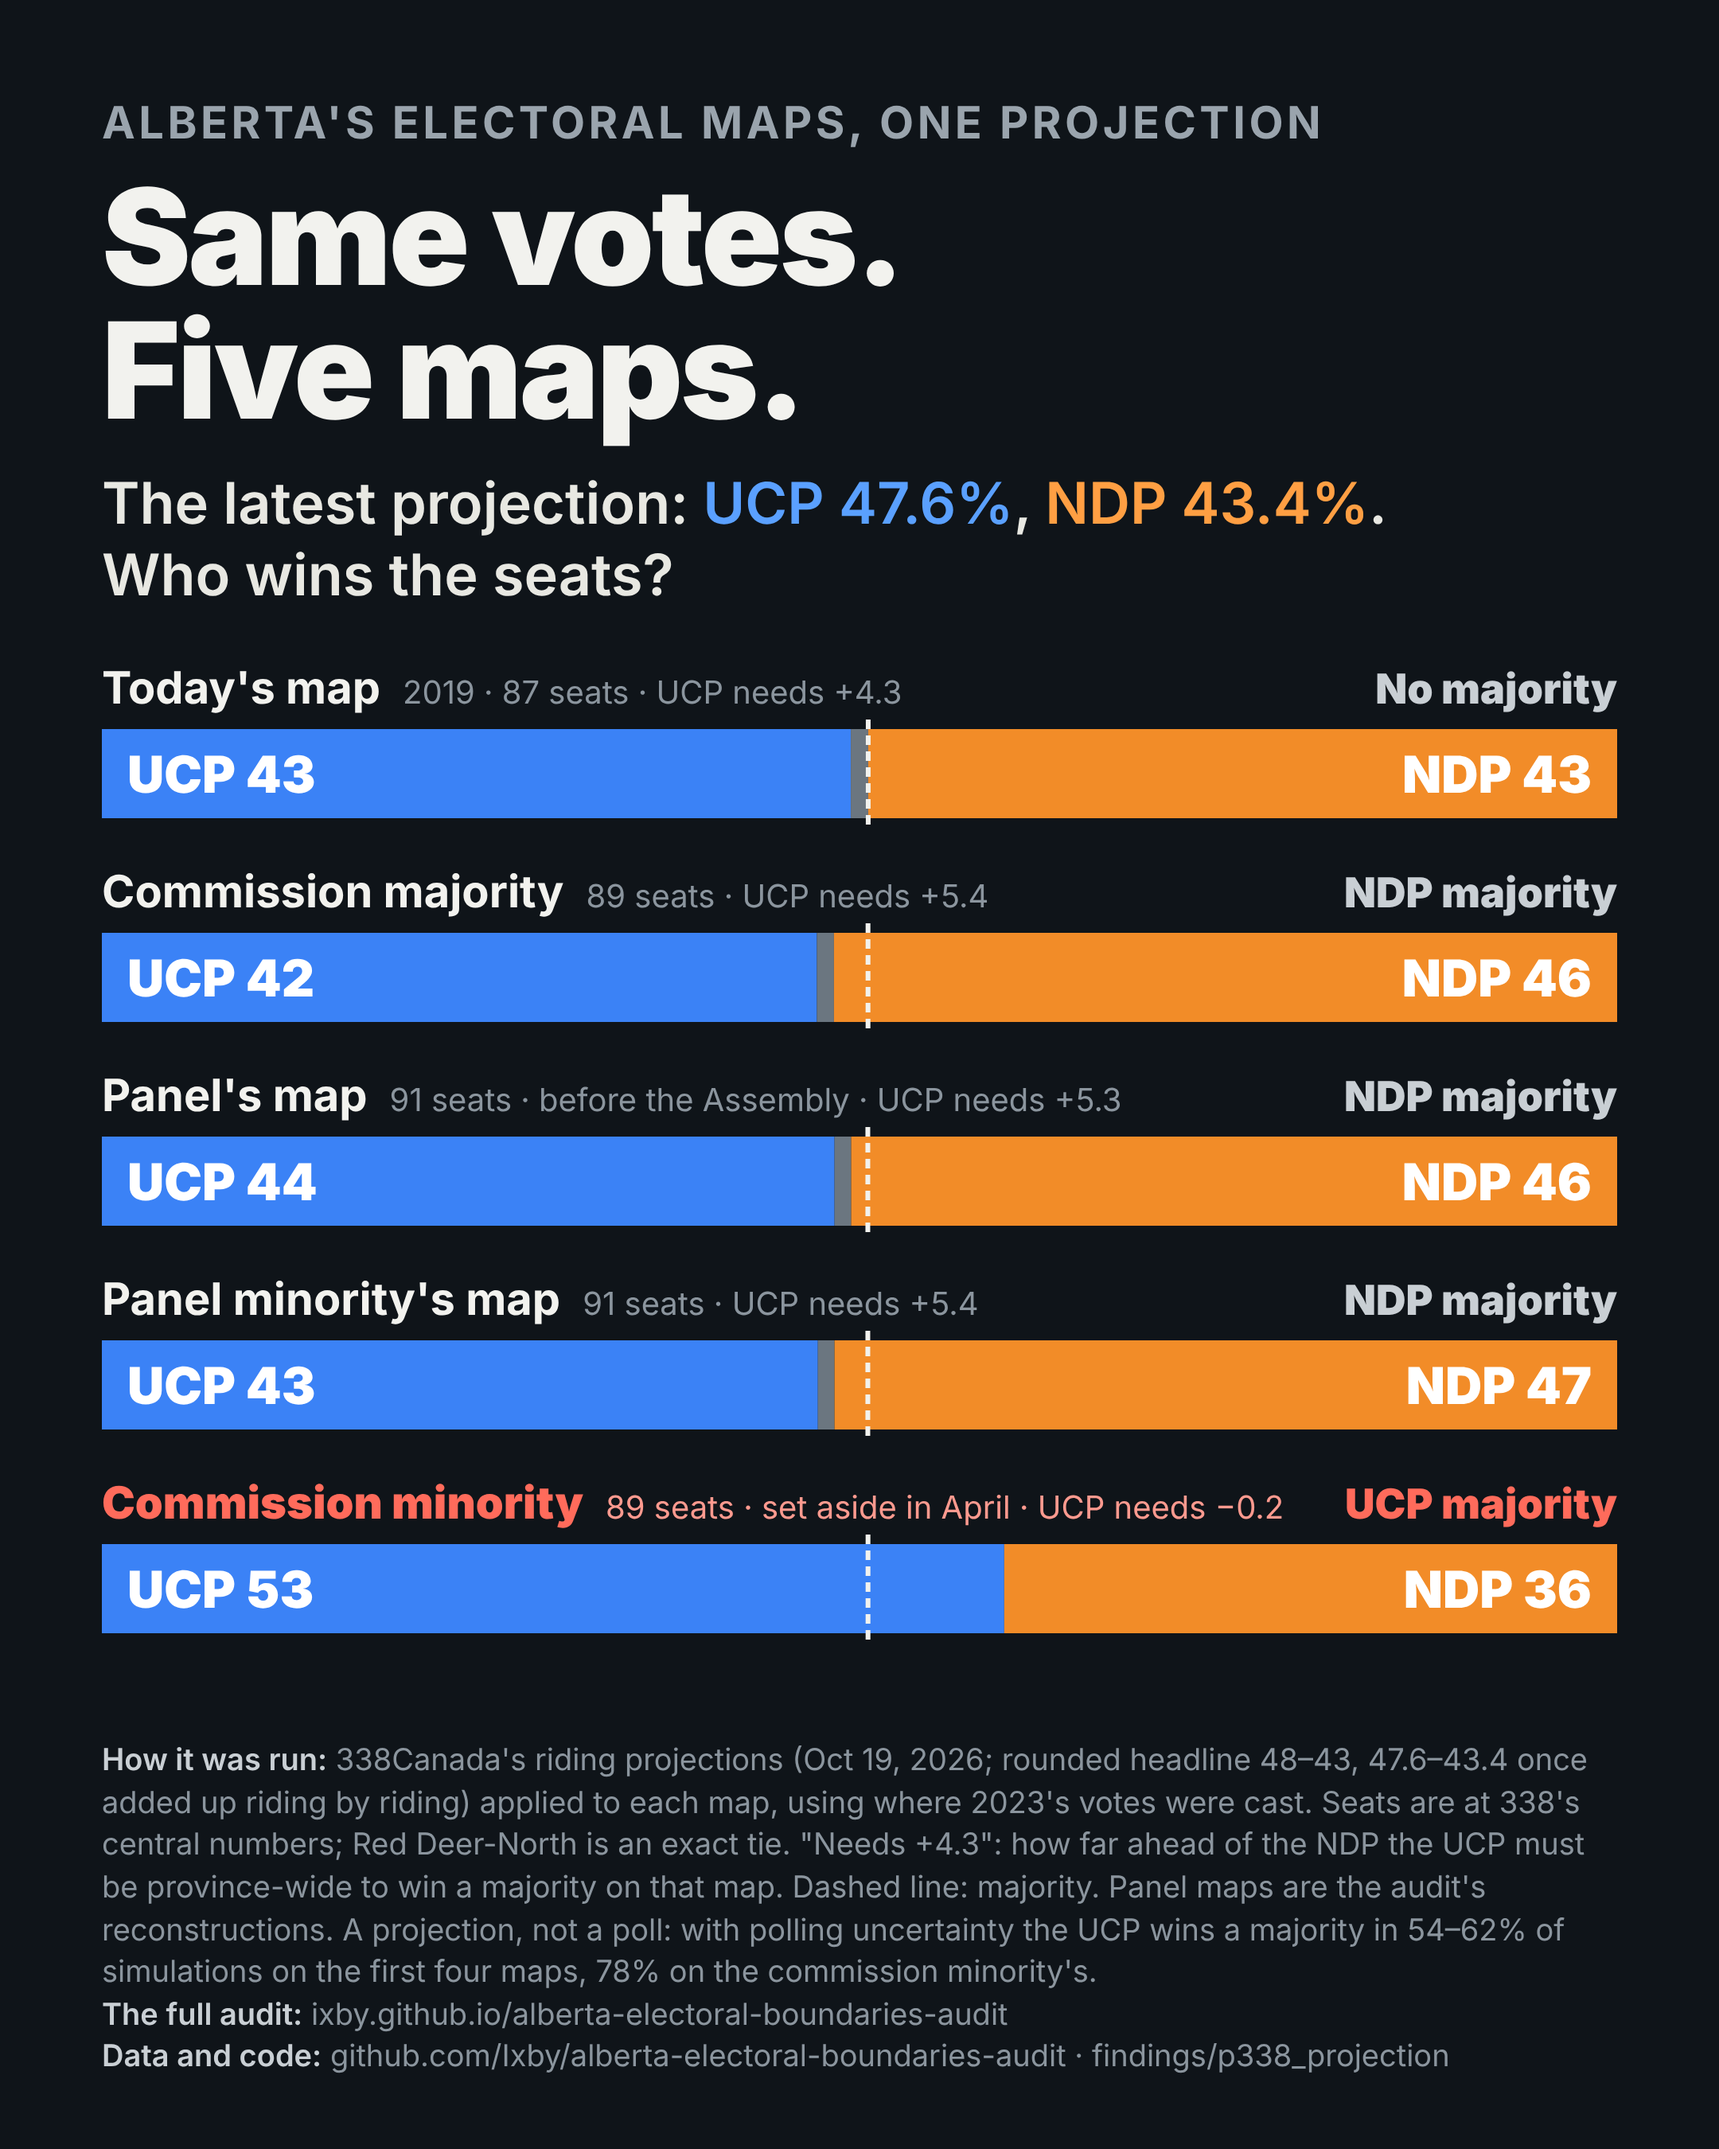
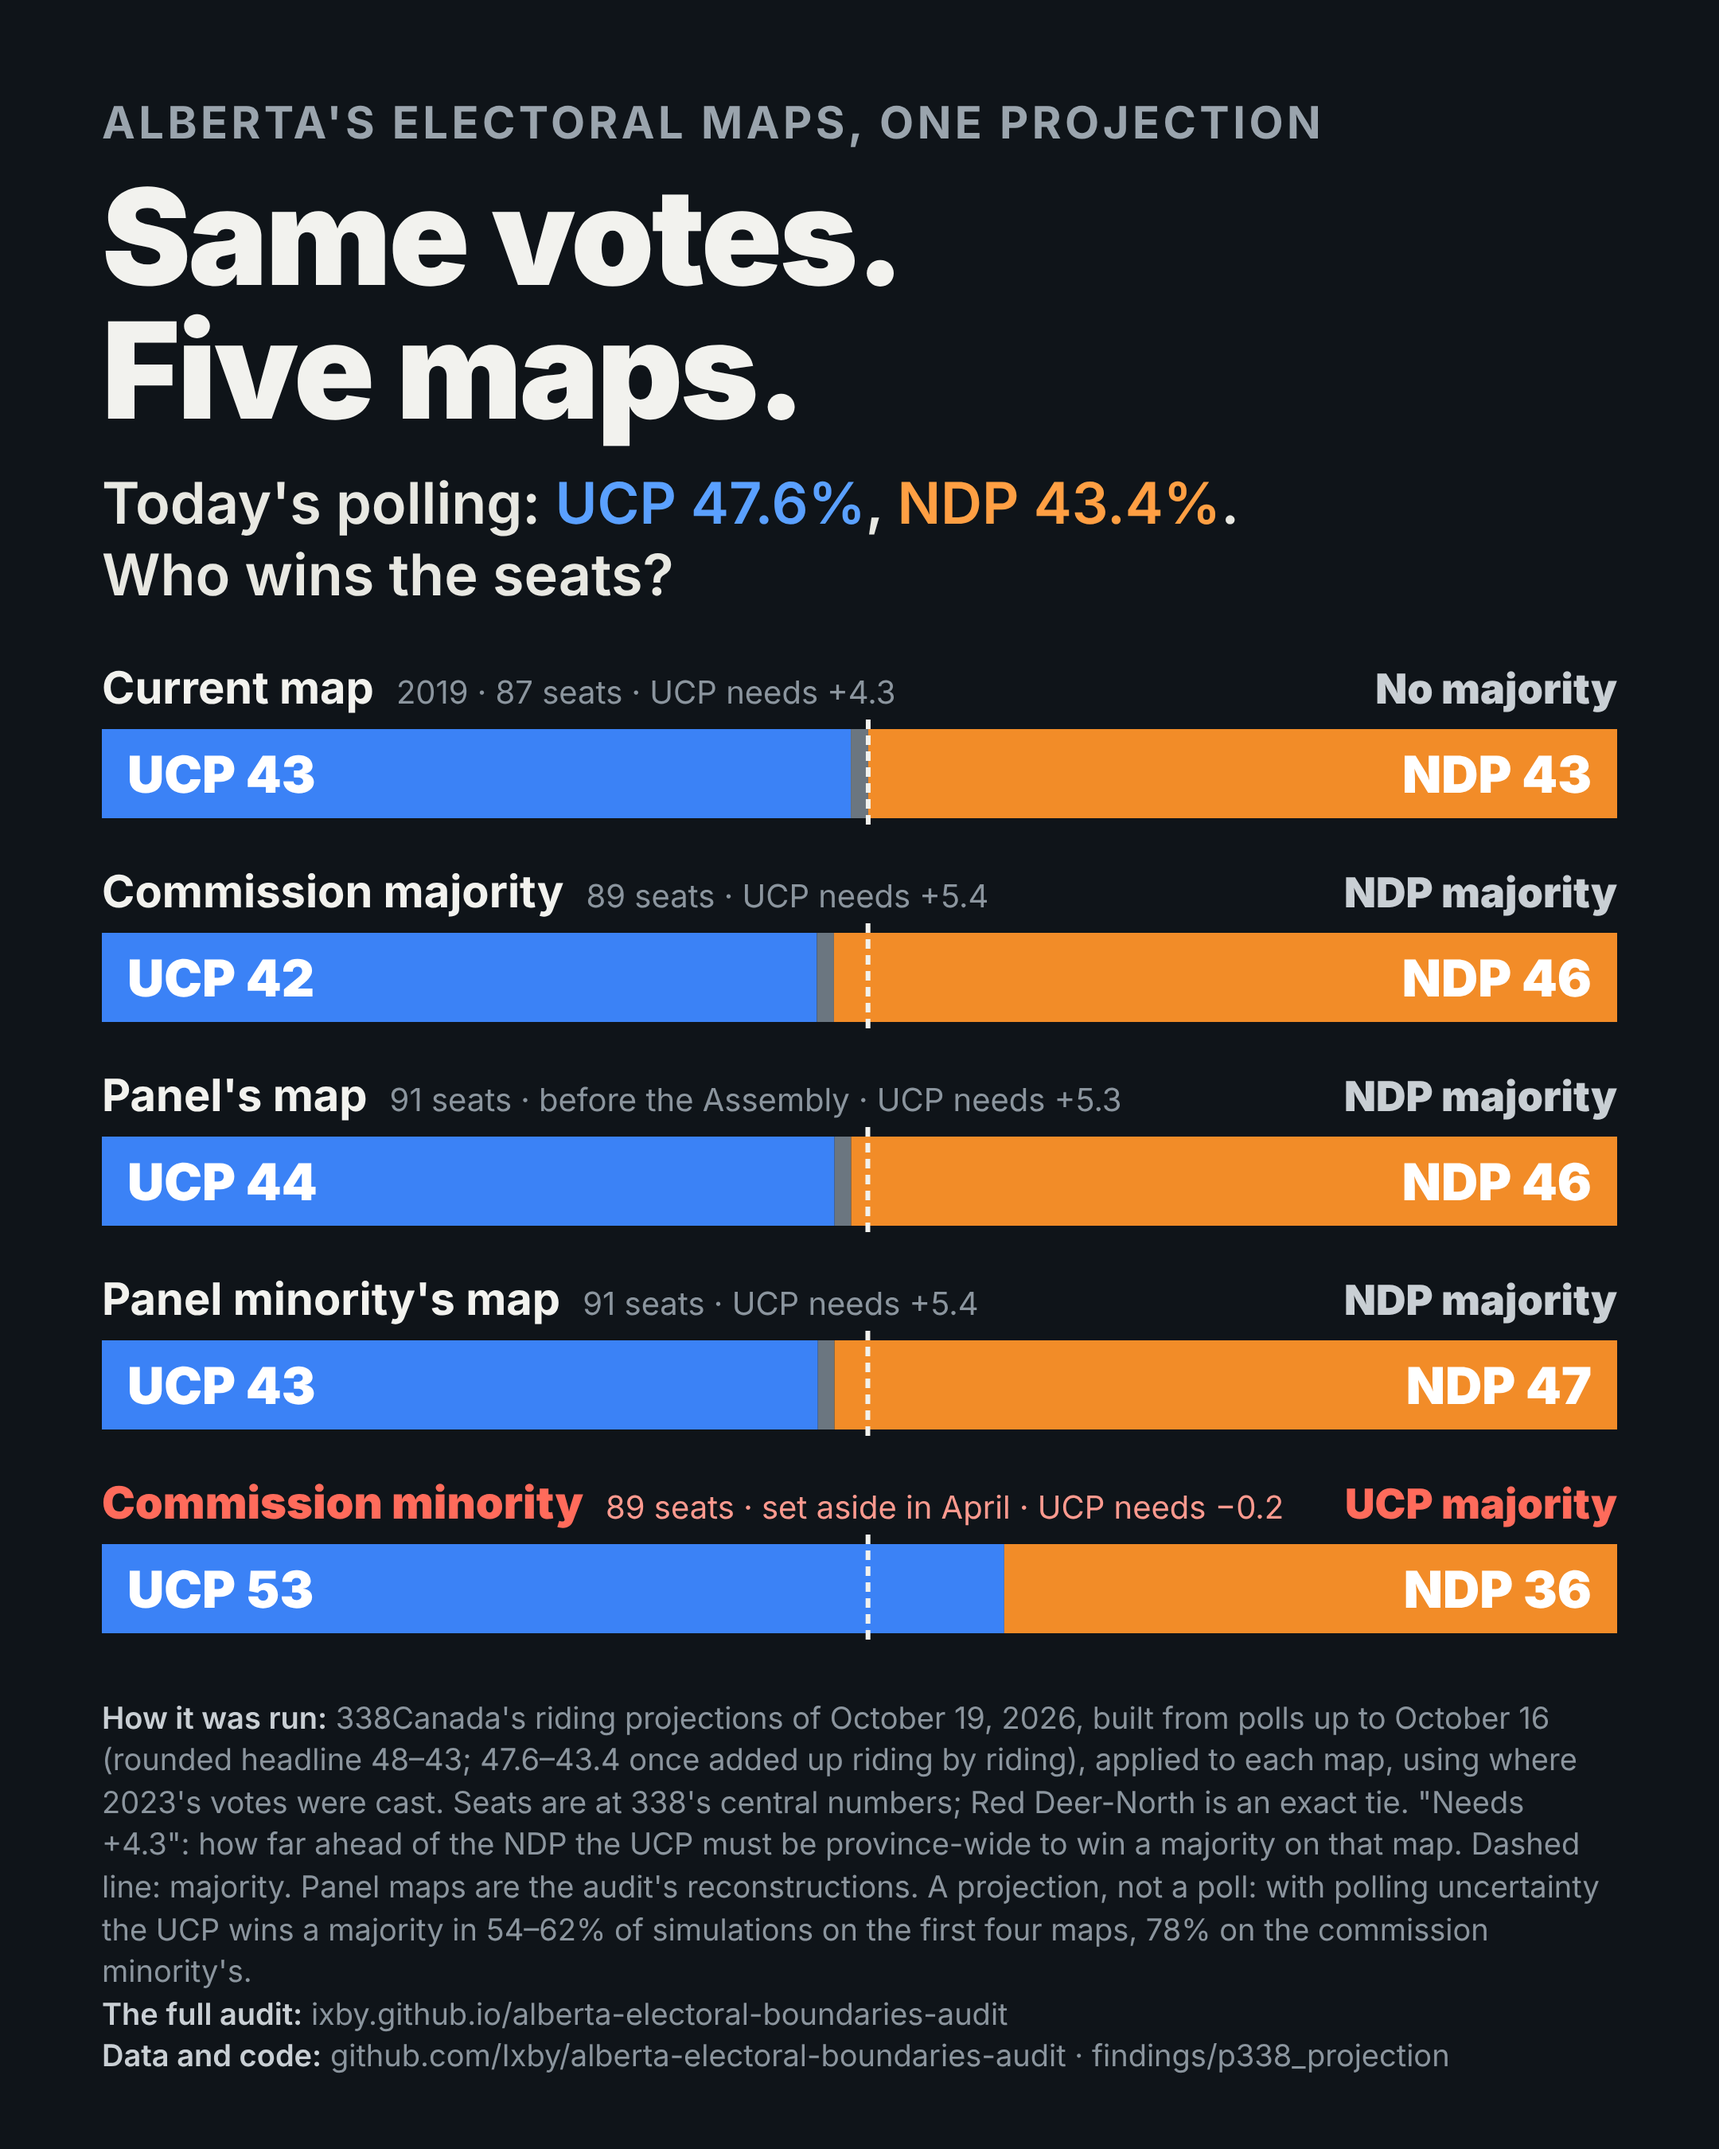
Chart: label rows "Current map" and the headline "Today's polling" (Wuff's wording)
The footer now dates the projection's inputs (polls up to October 16). Re-rendered from the
committed source.

Claude-Session: https://claude.ai/code/session_018fR2piQUSLgKm3yG7SKLG7

Changed region(s): [[0.062, 0.7778, 0.9306, 0.9333], [0.062, 0.2178, 0.8065, 0.2489], [0.062, 0.3111, 0.5273, 0.3422]]

diff --git a/findings/p338_projection/meme/same_votes_five_maps.html b/findings/p338_projection/meme/same_votes_five_maps.html
@@ -16,16 +16,16 @@
 <body><div class="card">
   <div class="kicker">Alberta's electoral maps, one projection</div>
   <h1>Same votes.<br>Five maps.</h1>
-  <div class="q">The latest projection: <span class="u">UCP 47.6%</span>, <span class="n">NDP 43.4%</span>.<br>Who wins the seats?</div>
+  <div class="q">Today's polling: <span class="u">UCP 47.6%</span>, <span class="n">NDP 43.4%</span>.<br>Who wins the seats?</div>
   <svg id="chart" width="952" height="640" viewBox="0 0 952 640"></svg>
   <div class="foot">
-    <b>How it was run:</b> 338Canada's riding projections (Oct 19, 2026; rounded headline 48–43, 47.6–43.4 once added up riding by riding) applied to each map, using where 2023's votes were cast. Seats are at 338's central numbers; Red Deer-North is an exact tie. "Needs +4.3": how far ahead of the NDP the UCP must be province-wide to win a majority on that map. Dashed line: majority. Panel maps are the audit's reconstructions. A projection, not a poll: with polling uncertainty the UCP wins a majority in 54–62% of simulations on the first four maps, 78% on the commission minority's.<br>
+    <b>How it was run:</b> 338Canada's riding projections of October 19, 2026, built from polls up to October 16 (rounded headline 48–43; 47.6–43.4 once added up riding by riding), applied to each map, using where 2023's votes were cast. Seats are at 338's central numbers; Red Deer-North is an exact tie. "Needs +4.3": how far ahead of the NDP the UCP must be province-wide to win a majority on that map. Dashed line: majority. Panel maps are the audit's reconstructions. A projection, not a poll: with polling uncertainty the UCP wins a majority in 54–62% of simulations on the first four maps, 78% on the commission minority's.<br>
     <b>The full audit:</b> ixby.github.io/alberta-electoral-boundaries-audit<br><b>Data and code:</b> github.com/Ixby/alberta-electoral-boundaries-audit · findings/p338_projection
   </div>
 </div>
 <script>
 const rows = [
-  {name:"Today's map", sub:"2019 · 87 seats", u:43, t:1, n:43, need:44, verdict:"No majority", lead:"+4.3"},
+  {name:"Current map", sub:"2019 · 87 seats", u:43, t:1, n:43, need:44, verdict:"No majority", lead:"+4.3"},
   {name:"Commission majority", sub:"89 seats", u:42, t:1, n:46, need:45, verdict:"NDP majority", lead:"+5.4"},
   {name:"Panel's map", sub:"91 seats · before the Assembly", u:44, t:1, n:46, need:46, verdict:"NDP majority", lead:"+5.3"},
   {name:"Panel minority's map", sub:"91 seats", u:43, t:1, n:47, need:46, verdict:"NDP majority", lead:"+5.4"},
